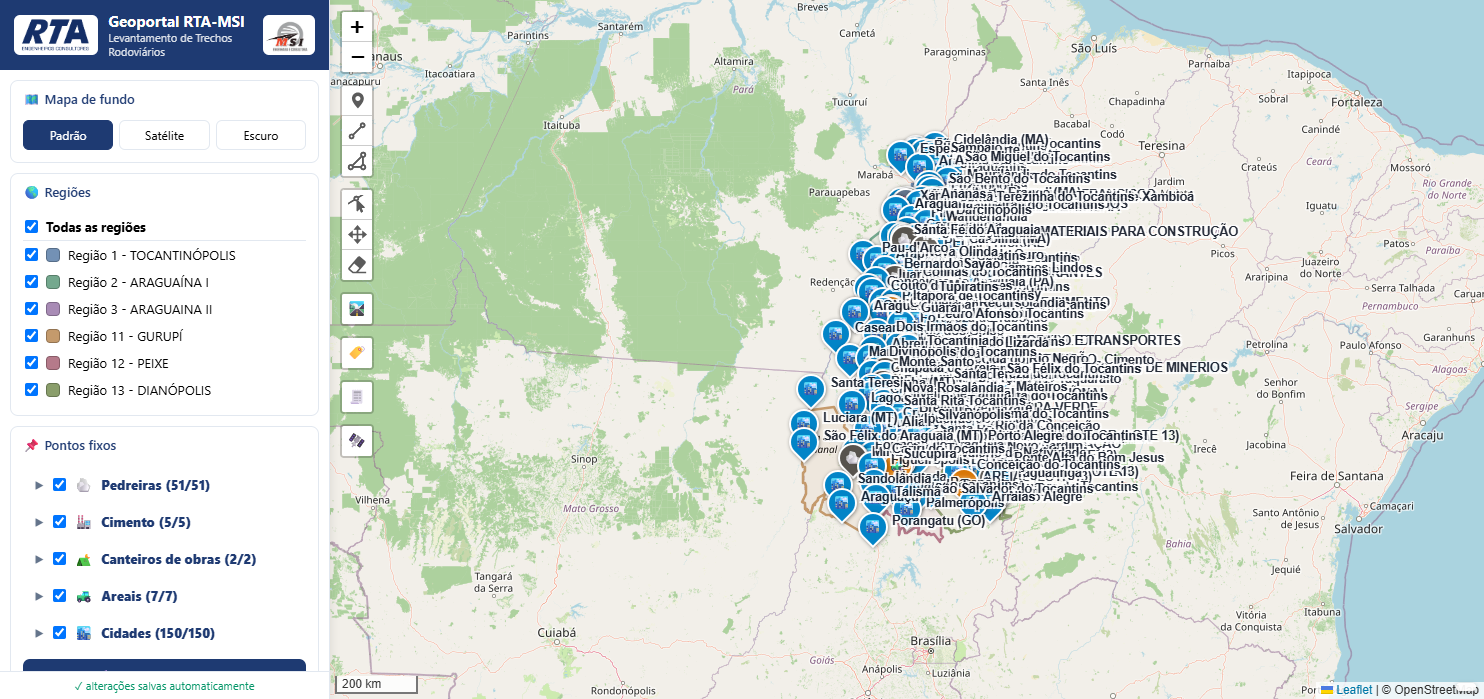
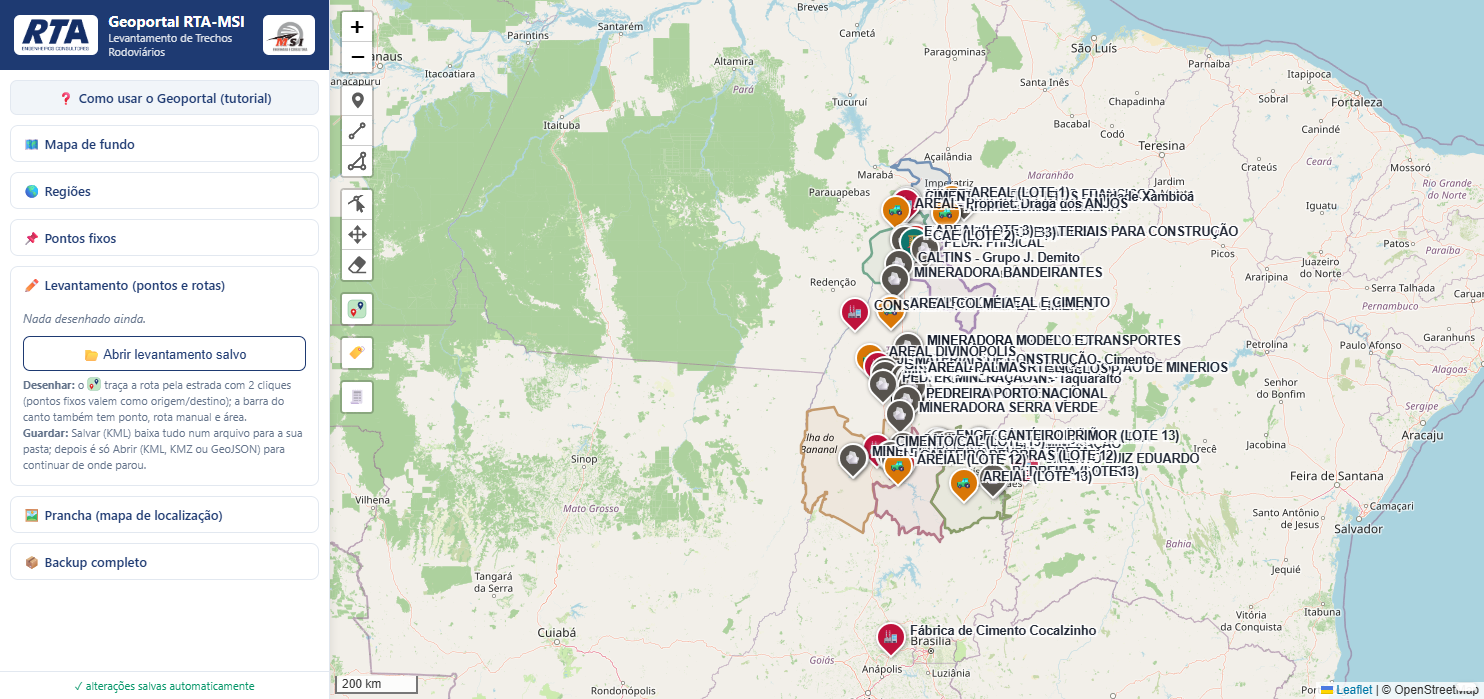
Atualiza o tutorial com as mudancas recentes
- Prints novos de "A tela do Geoportal" e "Pontos fixos" refletindo o painel
  reorganizado (secoes recolhidas, link de ajuda, Cidades em primeiro e
  ocultas, selo SEU, "Só esta" com texto) e o icone novo da Rota pela estrada
- Novo print de "Rota pela estrada" com o icone atualizado
- 2 telas novas: trecho de estrada de chao desenhado a mao (toggle manual +
  atalhos de pavimento) e os pontos automaticos 🚧 no limite chao x asfalto
- Dica adicionada na tela da prancha final sobre a legenda mostrar coordenada
- index.html: corrige a etiqueta "SEU" que ficava cortada em nomes de ponto
  fixo longos (estava dentro do span do nome, que trunca com "..."; agora é
  um span separado, sempre visível)

diff --git a/tutorial.html b/tutorial.html
@@ -66,7 +66,7 @@
   <button id="prox">Próximo →</button>
 </footer>
 <script>
-const SLIDES = [{"tipo": "capa"}, {"tipo": "cena", "img": "tutorial-img/01-visao-geral.png", "vw": 1484, "vh": 699, "titulo": "A tela do Geoportal", "sub": "As 5 áreas principais", "extra": "", "hotspots": [{"r": [0, 0, 329, 70.2], "titulo": "Cabeçalho", "texto": "Identificação do Geoportal RTA-MSI. No celular, o painel abre e fecha pelo botão ☰."}, {"r": [23, 120.2, 283, 30], "titulo": "Mapa de fundo", "texto": "Padrão (ruas), Satélite (o melhor para a prancha) e Escuro."}, {"r": [11, 209.2, 307, 206], "titulo": "Regiões", "texto": "Clique no nome para dar zoom. As caixinhas mostram/ocultam; “Todas as regiões” liga/desliga tudo de uma vez."}, {"r": [330, 0, 44, 458], "titulo": "Barra de ferramentas", "texto": "Zoom, desenho (ponto, rota manual, área), edição e os botões especiais: 🛣 rota pela estrada, 🏷 nomes, 🧾 coordenadas e 🛰 GPS."}, {"r": [1456, 683, 20, 8], "titulo": "Coordenadas do cursor", "texto": "Posição do mouse em Lat/Lon e UTM (SIRGAS 2000), em tempo real."}]}, {"tipo": "cena", "img": "tutorial-img/02-pontos-fixos.png", "vw": 1484, "vh": 699, "titulo": "Pontos fixos", "sub": "Buscar, filtrar e cadastrar", "extra": "", "hotspots": [{"r": [23, 70.2, 283, 37], "titulo": "Grupo por categoria", "texto": "A seta ▶ abre a lista. O contador (150/150) mostra visíveis/total. A caixinha do grupo liga/desliga todos de uma vez."}, {"r": [33, 111.2, 273, 28], "titulo": "Busca rápida", "texto": "Digite parte do nome — sem precisar de acento. Ex.: “porto” filtra Porto Nacional, Porto Alegre..."}, {"r": [0, 0, 0, 0], "titulo": "Mostrar / ocultar", "texto": "A caixinha controla se o ponto aparece no mapa, na legenda e nas coordenadas da prancha."}, {"r": [0, 0, 0, 0], "titulo": "🎯 Só esta", "texto": "Esconde todos os outros do grupo e deixa só o ponto escolhido — ideal para montar a prancha."}, {"r": [23, 242.2, 283, 33], "titulo": "Adicionar ponto fixo", "texto": "Cadastre usinas, canteiros etc. pelo nome, por Lat/Lon, UTM ou clicando no mapa. O campo “Km na rodovia” sai na prancha."}]}, {"tipo": "cena", "img": "tutorial-img/03-rota-estrada.png", "vw": 1484, "vh": 699, "titulo": "Rota pela estrada", "sub": "2 cliques e o trajeto aparece seguindo as rodovias", "extra": "", "hotspots": [{"r": [1234, 10, 240, 108.2], "titulo": "Painel da rota", "texto": "Mostra a distância pela estrada e os botões: ✔ Concluir (salva), ↩ Desfazer (tira o último ponto) e ✖ Cancelar."}, {"r": [342, 294, 30, 30], "titulo": "Botão 🛣", "texto": "Ativa o modo rota. Dica: nos balões dos pontos fixos existe o atalho “Rota daqui”."}]}, {"tipo": "cena", "img": "tutorial-img/04-rota-popup.png", "vw": 1484, "vh": 699, "titulo": "A rota pronta", "sub": "Pavimento identificado e ações no balão", "extra": "Os trechos de estrada de chão aparecem tracejados em marrom sobre a rota — e saem na prancha com a legenda.", "hotspots": [{"r": [723, 214.3, 347, 140.7], "titulo": "Balão da rota", "texto": "Nome, extensão, asfalto × estrada de chão e os botões: 🔁 Alterar rota (reabre com os pontos originais), ⬇ Baixar (KML), ✏ Renomear e 🗑 Excluir."}]}, {"tipo": "cena", "img": "tutorial-img/05-levantamento.png", "vw": 1484, "vh": 699, "titulo": "Salvar e abrir o levantamento", "sub": "O arquivo da pasta pessoal volta 100% editável", "extra": "", "hotspots": [{"r": [23, 355.1, 283, 31], "titulo": "Lista do levantamento", "texto": "Cada rota/ponto com: ⬇ baixar em KML, ✏ renomear e 🗑 excluir. Clique no nome para dar zoom."}, {"r": [23, 394.1, 137.9, 35], "titulo": "💾 Salvar (KML)", "texto": "Baixa TODO o levantamento num arquivo só — guarde na sua pasta pessoal."}, {"r": [23, 435.1, 283, 35], "titulo": "📂 Abrir", "texto": "Traz o arquivo de volta (KML, KMZ ou GeoJSON) para continuar de onde parou — inclusive rotas do Google Earth."}]}, {"tipo": "cena", "img": "tutorial-img/06-prancha-modal.png", "vw": 1484, "vh": 699, "titulo": "Gerar a prancha", "sub": "Mapa de localização pronto em 1 clique", "extra": "", "hotspots": [{"r": [560, 135.6, 364, 33], "titulo": "Título e subtítulo", "texto": "Saem na caixa branca da prancha, junto com as logos RTA e MSI."}, {"r": [560, 259.6, 364, 35], "titulo": "Referência dos KM", "texto": "O canteiro já vem selecionado: as distâncias pela estrada até cada ponto saem no bloco COORDENADAS."}, {"r": [560, 339.6, 364, 84], "titulo": "Memória de cálculo", "texto": "Texto livre que sai num quadro ao lado das coordenadas — média, DMT, observações do orçamento."}, {"r": [560, 456.6, 270.4, 35], "titulo": "Média automática", "texto": "Escolha a rota e clique ➕: entra a linha pronta, ex.: CANTEIRO/OBRA: 34,94/2 = 17,47 KM, com o detalhamento de estrada de chão."}, {"r": [746.5, 581.4, 177.5, 33], "titulo": "Gerar PNG", "texto": "A prancha baixa pronta para o relatório."}]}, {"tipo": "cena", "img": "tutorial-img/07-prancha.png", "vw": 1154, "vh": 849, "titulo": "A prancha pronta", "sub": "Gerada pelo botão — este é um exemplo real", "extra": "", "hotspots": [{"r": [15, 10, 510, 80], "titulo": "Título + logos", "texto": "RTA e MSI com o título e o subtítulo que você digitou na janela da prancha."}, {"r": [830, 8, 318, 240], "titulo": "Legenda automática", "texto": "Entra sozinha com o que estava visível: pontos pelo nome e cada rota com cor e km — com a sublinha asfalto × estrada de chão."}, {"r": [895, 630, 252, 65], "titulo": "Escala e norte", "texto": "Escala gráfica segmentada e seta norte, no padrão de prancha cartográfica."}, {"r": [8, 695, 680, 150], "titulo": "COORDENADAS", "texto": "Cada ponto com coordenadas e o KM pela estrada calculado a partir do canteiro."}, {"r": [700, 695, 450, 100], "titulo": "Memória de cálculo", "texto": "O quadro livre com a média da rota (total/2 = DMT) e as anotações do orçamento."}]}, {"tipo": "fim"}];
+const SLIDES = [{"tipo": "capa"}, {"tipo": "cena", "img": "tutorial-img/01-visao-geral.png", "vw": 1484, "vh": 699, "titulo": "A tela do Geoportal", "sub": "O painel e a barra de ferramentas", "extra": "", "hotspots": [{"r": [0, 0, 329, 70.25], "titulo": "Cabeçalho", "texto": "Identificação do Geoportal RTA-MSI. No celular, o painel abre e fecha pelo botão ☰."}, {"r": [10, 80.25, 309, 35], "titulo": "❓ Como usar o Geoportal", "texto": "Abre este tutorial numa aba nova — sempre à mão se você esquecer como algo funciona."}, {"r": [10, 125.25, 309, 131], "titulo": "Seções recolhidas", "texto": "Mapa de fundo, Regiões e Pontos fixos vêm fechados por padrão — clique no título pra abrir. Deixa o painel mais limpo."}, {"r": [10, 266.25, 309, 219.6], "titulo": "✏ Levantamento (já vem aberta)", "texto": "É a seção que você usa toda hora — por isso já abre sozinha, com o atalho de como desenhar e salvar."}, {"r": [10, 495.9, 309, 84], "titulo": "Prancha e Backup", "texto": "Ficam fechadas até você precisar gerar o mapa final ou exportar tudo — clique pra abrir."}, {"r": [330, 0, 44, 414], "titulo": "Barra de ferramentas", "texto": "Zoom, desenho (ponto, rota manual, área), edição, arrastar e apagar — e o ícone verde com a estradinha entre 2 pinos é a Rota pela estrada."}, {"r": [1456, 683, 20, 8], "titulo": "Coordenadas do cursor", "texto": "Posição do mouse em Lat/Lon e UTM (SIRGAS 2000), em tempo real."}]}, {"tipo": "cena", "img": "tutorial-img/02-pontos-fixos.png", "vw": 1484, "vh": 699, "titulo": "Pontos fixos", "sub": "Buscar, filtrar e cadastrar", "extra": "💡 O botão ➕ Adicionar ponto fixo (mais abaixo na lista) cadastra por nome, Lat/Lon, UTM ou clicando direto no mapa.", "hotspots": [{"r": [23, 259.25, 283, 37], "titulo": "Cidades vem primeiro (mas ocultas)", "texto": "É a maior categoria (150 cidades) — por isso fica em destaque no topo, mas começa desmarcada, já que geralmente serve só de referência. Marque a caixinha pra ligar."}, {"r": [23, 296.25, 283, 37], "titulo": "Contagem mais limpa", "texto": "Mostra só o total quando está tudo visível. Se algo estiver oculto, mostra “X de Y visíveis”."}, {"r": [33, 337.25, 273, 28], "titulo": "Busca rápida", "texto": "Digite parte do nome — sem precisar de acento. Ex.: “porto” filtra Porto Nacional, Porto Alegre..."}, {"r": [33, 367.25, 273, 31], "titulo": "SEU + 🎯 Só esta", "texto": "Pontos que você mesma cadastrou ganham a etiqueta SEU — só esses têm ✏ editar e 🗑 excluir. O botão 🎯 Só esta esconde os outros da categoria (ótimo pra montar a prancha)."}]}, {"tipo": "cena", "img": "tutorial-img/03-rota-estrada.png", "vw": 1484, "vh": 699, "titulo": "Rota pela estrada", "sub": "2 cliques e o trajeto aparece seguindo as rodovias", "extra": "", "hotspots": [{"r": [1234, 10, 240, 108.2], "titulo": "Painel da rota", "texto": "Mostra a distância pela estrada e os botões: ✔ Concluir (salva), ↩ Desfazer (tira o último ponto) e ✖ Cancelar."}, {"r": [340, 292, 34, 34], "titulo": "Ícone Rota pela estrada", "texto": "Ativa o modo rota (o ícone mudou — era o 🛣, agora é esse mapinha com a estrada entre 2 pinos). Dica: nos balões dos pontos fixos existe o atalho “Rota daqui”."}]}, {"tipo": "cena", "img": "tutorial-img/08-trecho-misto.png", "vw": 1484, "vh": 699, "titulo": "Trecho de estrada de chão desenhado à mão", "sub": "Pra quando o trajeto passa por uma estrada que o mapa não conhece", "extra": "💡 Ao Concluir, o Geoportal já cria automaticamente 2 pontos 🚧 no início e no fim do trecho de chão, com nome e coordenada prontos — veja na próxima tela.", "hotspots": [{"r": [1246, 115.2, 216, 59], "titulo": "📍 Alternar pra desenho manual", "texto": "Clique aqui ANTES do próximo clique no mapa: o próximo trecho vira uma linha reta — o que você desenhar — em vez de seguir a estrada automaticamente. Clique de novo pra voltar ao modo normal."}, {"r": [1246, 178.2, 216, 25], "titulo": "Sem pavimentação / Com pavimentação", "texto": "Marca de uma vez se aquele trecho desenhado à mão é asfaltado ou estrada de chão — sai certo na legenda e no cálculo da distância."}]}, {"tipo": "cena", "img": "tutorial-img/09-limite-chao.png", "vw": 1484, "vh": 699, "titulo": "Pontos automáticos no limite chão × asfalto", "sub": "Nascem prontos, com nome e coordenada, ao concluir a rota", "extra": "💡 São pontos independentes — dá pra renomear, mover ou excluir cada um pela lista do Levantamento, igual a qualquer outro ponto.", "hotspots": [{"r": [915, 265, 175, 40], "titulo": "🚧 Início estrada de chão", "texto": "Marca exatamente onde o asfalto termina e a estrada de chão desenhada à mão começa — com a coordenada certinha pra levar pro relatório."}, {"r": [860, 390, 175, 40], "titulo": "🚧 Fim estrada de chão", "texto": "E aqui, onde a estrada de chão termina e o asfalto volta. Os dois pontos entram na lista do Levantamento e na legenda como qualquer outro ponto."}]}, {"tipo": "cena", "img": "tutorial-img/04-rota-popup.png", "vw": 1484, "vh": 699, "titulo": "A rota pronta", "sub": "Pavimento identificado e ações no balão", "extra": "Os trechos de estrada de chão aparecem tracejados em marrom sobre a rota — e saem na prancha com a legenda.", "hotspots": [{"r": [723, 214.3, 347, 140.7], "titulo": "Balão da rota", "texto": "Nome, extensão, asfalto × estrada de chão e os botões: 🔁 Alterar rota (reabre com os pontos originais), ⬇ Baixar (KML), ✏ Renomear e 🗑 Excluir."}]}, {"tipo": "cena", "img": "tutorial-img/05-levantamento.png", "vw": 1484, "vh": 699, "titulo": "Salvar e abrir o levantamento", "sub": "O arquivo da pasta pessoal volta 100% editável", "extra": "", "hotspots": [{"r": [23, 355.1, 283, 31], "titulo": "Lista do levantamento", "texto": "Cada rota/ponto com: ⬇ baixar em KML, ✏ renomear e 🗑 excluir. Clique no nome para dar zoom."}, {"r": [23, 394.1, 137.9, 35], "titulo": "💾 Salvar (KML)", "texto": "Baixa TODO o levantamento num arquivo só — guarde na sua pasta pessoal."}, {"r": [23, 435.1, 283, 35], "titulo": "📂 Abrir", "texto": "Traz o arquivo de volta (KML, KMZ ou GeoJSON) para continuar de onde parou — inclusive rotas do Google Earth."}]}, {"tipo": "cena", "img": "tutorial-img/06-prancha-modal.png", "vw": 1484, "vh": 699, "titulo": "Gerar a prancha", "sub": "Mapa de localização pronto em 1 clique", "extra": "", "hotspots": [{"r": [560, 135.6, 364, 33], "titulo": "Título e subtítulo", "texto": "Saem na caixa branca da prancha, junto com as logos RTA e MSI."}, {"r": [560, 259.6, 364, 35], "titulo": "Referência dos KM", "texto": "O canteiro já vem selecionado: as distâncias pela estrada até cada ponto saem no bloco COORDENADAS."}, {"r": [560, 339.6, 364, 84], "titulo": "Memória de cálculo", "texto": "Texto livre que sai num quadro ao lado das coordenadas — média, DMT, observações do orçamento."}, {"r": [560, 456.6, 270.4, 35], "titulo": "Média automática", "texto": "Escolha a rota e clique ➕: entra a linha pronta, ex.: CANTEIRO/OBRA: 34,94/2 = 17,47 KM, com o detalhamento de estrada de chão."}, {"r": [746.5, 581.4, 177.5, 33], "titulo": "Gerar PNG", "texto": "A prancha baixa pronta para o relatório."}]}, {"tipo": "cena", "img": "tutorial-img/07-prancha.png", "vw": 1484, "vh": 699, "titulo": "A prancha pronta", "sub": "Gerada pelo botão — este é um exemplo real", "extra": "💡 Agora a Legenda também mostra a coordenada de cada ponto — não só o bloco COORDENADAS lá embaixo.", "hotspots": [{"r": [15, 10, 510, 80], "titulo": "Título + logos", "texto": "RTA e MSI com o título e o subtítulo que você digitou na janela da prancha."}, {"r": [830, 8, 318, 240], "titulo": "Legenda automática", "texto": "Entra sozinha com o que estava visível: pontos pelo nome e coordenada, cada rota com cor e km — com a sublinha asfalto × estrada de chão."}, {"r": [895, 630, 252, 65], "titulo": "Escala e norte", "texto": "Escala gráfica segmentada e seta norte, no padrão de prancha cartográfica."}, {"r": [8, 695, 680, 150], "titulo": "COORDENADAS", "texto": "Cada ponto com coordenadas e o KM pela estrada calculado a partir do canteiro."}, {"r": [700, 695, 450, 100], "titulo": "Memória de cálculo", "texto": "O quadro livre com a média da rota (total/2 = DMT) e as anotações do orçamento."}]}, {"tipo": "fim"}];
 const palco = document.getElementById("palco");
 
 SLIDES.forEach((s, idx) => {

diff --git a/index.html b/index.html
@@ -917,10 +917,11 @@ function renderizarTodosFixos(){
              <button title="Excluir" onclick="excluirPontoFixo('${p.id}')">🗑</button>`;
         const selo = e.tipo === "manual"
           ? `<span title="Você que cadastrou este ponto (por isso dá pra editar/excluir)"
-              style="font-size:9px; font-weight:700; color:#fff; background:var(--cinza); border-radius:4px; padding:1px 5px; margin-left:4px; cursor:help">SEU</span>` : "";
+              style="flex:none; font-size:9px; font-weight:700; color:#fff; background:var(--cinza); border-radius:4px; padding:1px 5px; cursor:help">SEU</span>` : "";
         linha.innerHTML = `
           <input type="checkbox" class="chk-ponto" title="Mostrar no mapa e na prancha">
-          <span class="nome" style="font-size:12px">${esc(p.nome)}${selo}</span>
+          <span class="nome" style="font-size:12px">${esc(p.nome)}</span>
+          ${selo}
           ${acoes}`;
         const cb = linha.querySelector(".chk-ponto");
         cb.checked = !estaOculto(e);
